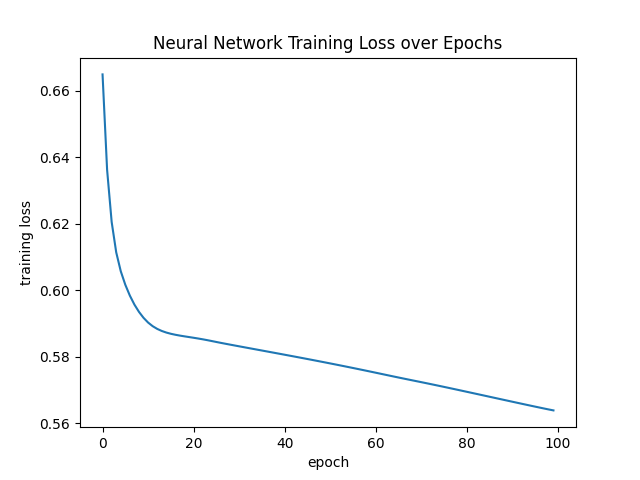
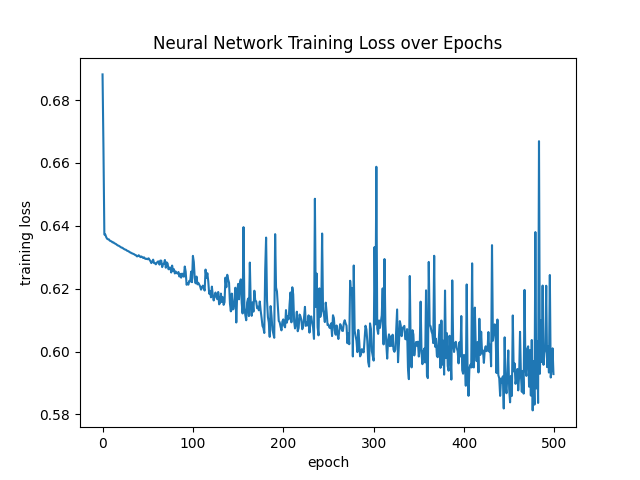
finish neural net impl

diff --git a/neural_net.py b/neural_net.py
@@ -6,15 +6,13 @@ import matplotlib.pyplot as plt
 def sigmoid(z):
     return 1 / (1 + np.exp(-z))
 
-# TODO: use relu as activation func
 def relu(z):
     z[z<0] = 0
     return z
 
+# Derivative of ReLU function
 def step(z):
-   z[z<0] = 0
-   z[z>=0] = 1
-   return z
+    return np.heaviside(z, 0)
 
 def init_weights(n_x, n_h, n_y):
     w1 = np.random.randn(n_h, n_x) * 0.01
@@ -36,7 +34,7 @@ def forward_prop(X, weights):
     # X: M x Nx
     M = X.shape[0]
     z1 = np.dot(X, weights["W1"].T) + np.tile(weights["B1"].T, (M, 1))
-    y1 = sigmoid(z1)
+    y1 = relu(z1)
     # print("z1 shape: ", z1.shape)
     # print("y1 shape: ", y1.shape)
 
@@ -59,6 +57,7 @@ def back_prop(W, X, t, node_output):
     # t: M x 1
     M = len(X)
 
+    z1 = node_output["Z1"]
     y1 = node_output["Y1"]
     y2 = node_output["Y2"]
     w2 = W["W2"]
@@ -71,7 +70,8 @@ def back_prop(W, X, t, node_output):
     # print("dz2 shape: ", dz2.shape)
     # print("w2 shape: ", w2.shape)
 
-    dz1 = np.dot(dz2, w2) * (y1 * (1 - y1))
+    # dz1 = np.dot(dz2, w2) * (y1 * (1 - y1))
+    dz1 = np.dot(dz2, w2) * step(z1)
     dw1 = 1/M * np.dot(dz1.T, X)
     db1 = 1/M * np.sum(dz1)
 
@@ -150,36 +150,6 @@ def train(X_train, t_train, X_val, t_val, nn_dims, alpha):
             acc_best = acc
             w_best = W
             epoch_best = epoch
-
-        # TODO: update weights based on gradients 
-
-        # grad = np.dot(X_batch.T, (y-t_batch))
-        # w = w - alpha*grad
-        # for batch in range(num_batches):
-
-        #     X_batch = X_train[batch*batch_size: (batch+1)*batch_size]
-        #     t_batch = np.concatenate(t_train[batch*batch_size: (batch+1)*batch_size])
-
-        #     forward_prop()
-        #     y, t_hat, loss, acc = predict(X_batch, w, t_batch)
-        #     loss_this_epoch += loss
-
-        #     grad = np.dot(X_batch.T, (y-t_batch))
-        #     w = w - alpha*grad
-
-        # Perform validation on the validation set by accuracy
-        # _, _, _, acc = predict(X_val, w, t_val)
-        # print("epoch acc: ", acc)
-
-        # # Append training loss and accuracy for the epoch
-        # train_losses.append(loss_this_epoch/num_batches)
-        # valid_accs.append(acc)
-
-        # Keep track of the best validation epoch, accuracy, and the weights
-        # if acc > acc_best:
-        #     acc_best = acc
-        #     w_best = w
-        #     epoch_best = epoch
     
     return epoch_best, acc_best,  w_best, train_losses, valid_accs
 
@@ -187,13 +157,12 @@ def train(X_train, t_train, X_val, t_val, nn_dims, alpha):
 ##############################
 # Main code starts here
 
-# Single hidden layer with 4 nodes
-# TODO: tune this
+# Single hidden layer with n_h nodes
 n_h = 32
 
-alpha = 0.04     # learning rate
-batch_size = 32    # batch size
-MaxEpoch = 100      # Maximum epoch - default 50
+alpha = 0.1     # learning rate
+batch_size = 100    # batch size
+MaxEpoch = 500      # Maximum epoch - default 50
 decay = 0.          # weight decay
 
 # logistic regression classifier

diff --git a/neural_net_test.py b/neural_net_test.py
@@ -7,5 +7,12 @@ def test_relu():
     expected = [10, 0, 1, 0.5, 0, 0]
     npt.assert_array_equal(np.round_(relu(z), 4), expected)
 
+def test_step():
+    z = np.array([10, -.5, 1, .5, -5, 0])
+    print(step(z))
+    expected = [1, 0, 1, 1, 0, 0]
+    npt.assert_array_equal(np.round_(step(z), 4), expected)
+
 test_relu()
+test_step()
 print("Everything passed")

diff --git a/utils.py b/utils.py
@@ -18,7 +18,7 @@ def get_accuracy(t, t_hat):
 
 def get_data():
     data = pd.read_csv('./train.csv')
-    data = shuffle(data)
+    # data = shuffle(data)
     # print(data)
     # print(data.describe())
 
